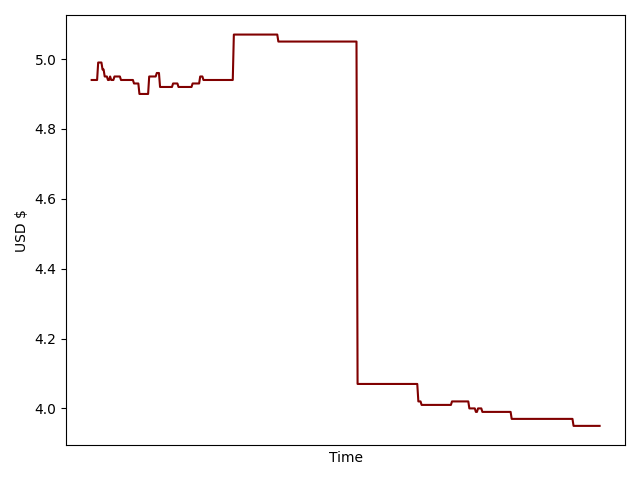
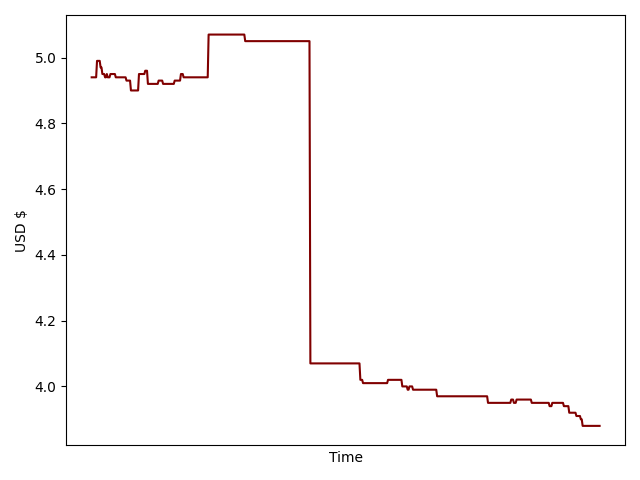
jquery reload func

diff --git a/templates/main.html b/templates/main.html
@@ -8,12 +8,14 @@
 <meta http-equiv="X-UA-Compatible" content="IE=edge,chrome=1">
 <meta name="viewport" content="width=device-width, initial-scale=1">
 <script src="https://cdn.jsdelivr.net/npm/bootstrap@5.1.3/dist/js/bootstrap.bundle.min.js" integrity="sha384-ka7Sk0Gln4gmtz2MlQnikT1wXgYsOg+OMhuP+IlRH9sENBO0LRn5q+8nbTov4+1p" crossorigin="anonymous"></script>
+<script type="text/javascript" src="https://ajax.googleapis.com/ajax/libs/jquery/1.6.1/jquery.min.js"></script>
+<script src="{{url_for('static', filename='js/reload.js')}}"></script>
 <title> StarStruck </title>
 </head>
 <body>
-<h1 class='starstruck'>StarStruck <img class="logo" src="static/icon/StarStruck.png"/></h1>
+<h1 class='starstruck'>StarStruck <img id="starstruck" class="logo" src="static/icon/StarStruck.png"/></h1>
 <div class="main">
-  <img src={{ imgsrc }} width='100%'/>
+  <img id="graph" src={{ imgsrc }} width='100%'/>
   <div class="top-right"> {{ imgsrc[13:-4] }} </div>
 </div>
 
@@ -23,9 +25,9 @@
   {% endfor %}
   <hr/>
   <a href="/"> {{ bal[-1] }} </a>
-  <form method="post">
   <hr/>
-  <input class="btn btn-success" type="submit" value="UPDATE">
+  <form method="post" id="update">
+    <input class="btn btn-success" type="submit" value="UPDATE"/>
   </form>
 </div>
 

diff --git a/app.py b/app.py
@@ -5,6 +5,8 @@
 # Flask Imports
 from flask import Flask, escape, request, render_template
 from flask import Flask
+# os
+import os
 # wallet import
 from wallet import *
 
@@ -15,6 +17,7 @@ app = Flask(__name__)
 def main():
     if request.method == "POST":
         print(cb_acc.balance()) # update balance
+        os.remove("static/graph/Portfolio.png")
         pf.plotpf() # update graph
     bal = str.splitlines(cb_acc.balance())
     return render_template('main.html', bal=bal, imgsrc="static/graph/Portfolio.png")
